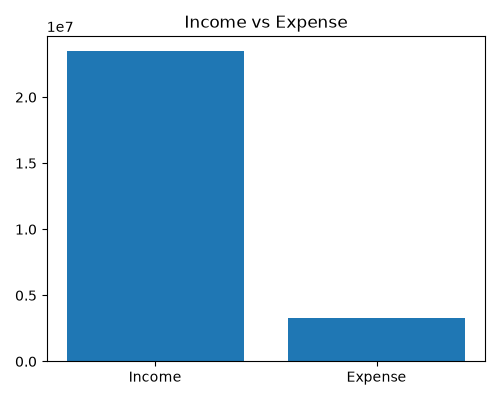
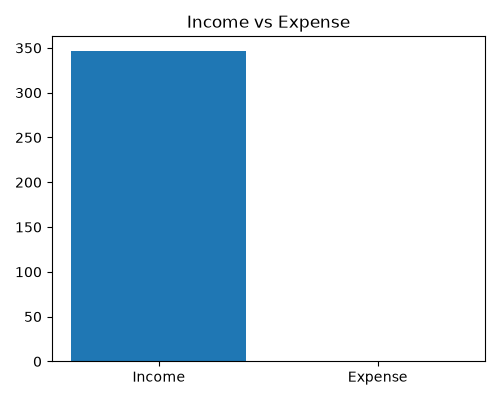
V13 landing page and SaaS routing

diff --git a/templates/landing.html b/templates/landing.html
@@ -1,0 +1,107 @@
+<!DOCTYPE html>
+
+<html>
+
+<head>
+
+```
+<meta charset="UTF-8">
+
+<title>Khata Kitab</title>
+
+<link rel="stylesheet"
+      href="{{ url_for('static', filename='style.css') }}">
+```
+
+</head>
+
+<body>
+
+```
+<div class="landing-navbar">
+
+    <div class="logo">
+        💰 Khata Kitab
+    </div>
+
+    <div>
+
+        <a class="hero-btn"
+           href="/login">
+            Login
+        </a>
+
+        <a class="hero-btn hero-btn-primary"
+           href="/signup">
+            Start Free
+        </a>
+
+    </div>
+
+</div>
+
+<div class="hero">
+
+    <h1>
+        Manage Your Money Smarter
+    </h1>
+
+    <p>
+        Track income, expenses, reports and exports
+        from one simple dashboard.
+    </p>
+
+    <div class="hero-buttons">
+
+        <a href="/signup"
+           class="hero-btn hero-btn-primary">
+            Start Free
+        </a>
+
+        <a href="/login"
+           class="hero-btn">
+            Login
+        </a>
+
+    </div>
+
+</div>
+
+<div class="features">
+
+    <div class="feature-card">
+
+        <h2>💳 Expense Tracking</h2>
+
+        <p>
+            Record every transaction with categories.
+        </p>
+
+    </div>
+
+    <div class="feature-card">
+
+        <h2>📊 Reports</h2>
+
+        <p>
+            Visualize income and expenses instantly.
+        </p>
+
+    </div>
+
+    <div class="feature-card">
+
+        <h2>📁 CSV Export</h2>
+
+        <p>
+            Download your financial data anytime.
+        </p>
+
+    </div>
+
+</div>
+```
+
+</body>
+
+</html>

diff --git a/static/style.css b/static/style.css
@@ -230,3 +230,62 @@ height:240px !important;
 ```
 
 }
+.landing-navbar{
+display:flex;
+justify-content:space-between;
+align-items:center;
+padding:20px 40px;
+}
+
+.hero{
+text-align:center;
+padding:80px 20px;
+}
+
+.hero h1{
+font-size:48px;
+margin-bottom:15px;
+}
+
+.hero p{
+font-size:20px;
+color:#6b7280;
+margin-bottom:30px;
+}
+
+.hero-buttons{
+display:flex;
+justify-content:center;
+gap:15px;
+}
+
+.hero-btn{
+padding:12px 24px;
+border-radius:10px;
+text-decoration:none;
+border:1px solid #2563eb;
+color:#2563eb;
+font-weight:bold;
+}
+
+.hero-btn-primary{
+background:#2563eb;
+color:white;
+}
+
+.features{
+display:grid;
+grid-template-columns:repeat(3,1fr);
+gap:20px;
+max-width:1200px;
+margin:40px auto;
+}
+
+.feature-card{
+background:white;
+padding:25px;
+border-radius:16px;
+box-shadow:0 4px 12px rgba(0,0,0,0.06);
+text-align:center;
+}
+

diff --git a/app.py b/app.py
@@ -139,13 +139,20 @@ def logout():
     return redirect("/login")
 
 
[email redacted]("/landing")
+def landing():
+
+    if current_user.is_authenticated:
+        return redirect("/")
+
+    return render_template("landing.html")
+
+
 def generate_charts(user_id):
-    """Generate charts only for the given user's transactions."""
 
     conn = get_db()
     cur = conn.cursor()
 
-    # FIX: Filter by user_id
     cur.execute("""
         SELECT COALESCE(SUM(amount), 0)
         FROM transactions
@@ -162,7 +169,6 @@ def generate_charts(user_id):
 
     os.makedirs("static/charts", exist_ok=True)
 
-    # Bar Chart
     plt.figure(figsize=(5, 4))
     plt.bar(["Income", "Expense"], [income, expense])
     plt.title("Income vs Expense")
@@ -170,7 +176,6 @@ def generate_charts(user_id):
     plt.savefig("static/charts/income_expense.png")
     plt.close()
 
-    # Pie Chart — FIX: Filter by user_id
     cur.execute("""
         SELECT category, SUM(amount)
         FROM transactions
@@ -195,17 +200,16 @@ def generate_charts(user_id):
 
 
 @app.route("/")
-@login_required  # FIX: Protect home route
+@login_required
 def home():
 
     search = request.args.get("search", "")
-    user_id = current_user.id  # FIX: Get logged-in user's ID
+    user_id = current_user.id
 
     conn = get_db()
     cur = conn.cursor()
 
     if search:
-        # FIX: AND user_id=? added to every query
         cur.execute("""
             SELECT *
             FROM transactions
@@ -233,7 +237,6 @@ def home():
 
     transactions = cur.fetchall()
 
-    # FIX: All summary queries filter by user_id
     cur.execute("""
         SELECT COALESCE(SUM(amount), 0)
         FROM transactions
@@ -271,13 +274,12 @@ def home():
 
 
 @app.route("/add", methods=["POST"])
-@login_required  # FIX: Protect add route
+@login_required
 def add():
 
     conn = get_db()
     cur = conn.cursor()
 
-    # FIX: Insert user_id with the transaction
     cur.execute("""
         INSERT INTO transactions(
             transaction_date,
@@ -294,7 +296,7 @@ def add():
         request.form["amount"],
         request.form["category"],
         request.form["note"],
-        current_user.id   # FIX: Bind to logged-in user
+        current_user.id
     ))
 
     conn.commit()
@@ -304,13 +306,12 @@ def add():
 
 
 @app.route("/delete/<int:id>")
-@login_required  # FIX: Protect delete route
+@login_required
 def delete(id):
 
     conn = get_db()
     cur = conn.cursor()
 
-    # FIX: Only delete if it belongs to current user
     cur.execute(
         "DELETE FROM transactions WHERE id=? AND user_id=?",
         (id, current_user.id)
@@ -323,7 +324,7 @@ def delete(id):
 
 
 @app.route("/edit/<int:id>", methods=["GET", "POST"])
-@login_required  # FIX: Protect edit route
+@login_required
 def edit(id):
 
     conn = get_db()
@@ -331,7 +332,6 @@ def edit(id):
 
     if request.method == "POST":
 
-        # FIX: Only update if it belongs to current user
         cur.execute("""
             UPDATE transactions
             SET transaction_date=?,
@@ -347,7 +347,7 @@ def edit(id):
             request.form["category"],
             request.form["note"],
             id,
-            current_user.id   # FIX: Ownership check
+            current_user.id
         ))
 
         conn.commit()
@@ -355,7 +355,6 @@ def edit(id):
 
         return redirect("/")
 
-    # FIX: Only fetch if it belongs to current user
     cur.execute(
         "SELECT * FROM transactions WHERE id=? AND user_id=?",
         (id, current_user.id)
@@ -372,16 +371,15 @@ def edit(id):
 
 
 @app.route("/reports")
-@login_required  # FIX: Protect reports route
+@login_required
 def reports():
 
-    user_id = current_user.id  # FIX: Scope to current user
+    user_id = current_user.id
     generate_charts(user_id)
 
     conn = get_db()
     cur = conn.cursor()
 
-    # FIX: All queries filter by user_id
     cur.execute("""
         SELECT COALESCE(SUM(amount), 0)
         FROM transactions
@@ -440,13 +438,12 @@ def reports():
 
 
 @app.route("/export")
-@login_required  # FIX: Protect export route
+@login_required
 def export_csv():
 
     conn = get_db()
     cur = conn.cursor()
 
-    # FIX: Only export current user's transactions
     cur.execute("""
         SELECT
             transaction_date,